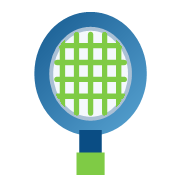
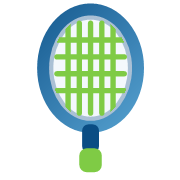
Add files via upload

Changed region(s): [[0.2222, 0.0, 0.7778, 0.6667], [0.1667, 0.25, 0.8333, 0.9722]]

diff --git a/index.html b/index.html
@@ -29,25 +29,25 @@
                       <stop offset="100%" stop-color="#6fbde9" />
                     </linearGradient>
                     <clipPath id="racketHeadClipMain">
-                      <ellipse cx="44" cy="31" rx="22" ry="27" />
+                      <ellipse cx="44" cy="31" rx="17.5" ry="22.5" />
                     </clipPath>
                   </defs>
                   <g>
-                    <ellipse cx="44" cy="31" rx="22" ry="27" fill="url(#racketHeadFillMain)" />
-                    <ellipse cx="44" cy="31" rx="15.4" ry="19.4" fill="#f4f8fc" stroke="#aac0d5" stroke-width="2.1" />
+                    <ellipse cx="44" cy="31" rx="23.8" ry="28.8" fill="url(#racketHeadFillMain)" />
+                    <ellipse cx="44" cy="31" rx="17.5" ry="22.5" fill="#f4f8fc" stroke="#aac0d5" stroke-width="2.1" />
                     <g clip-path="url(#racketHeadClipMain)">
-                      <path d="M33 11V51" stroke="#7fcb45" stroke-width="2.7" stroke-linecap="round"/>
-                      <path d="M39 10V52" stroke="#7fcb45" stroke-width="2.7" stroke-linecap="round"/>
-                      <path d="M44 10V52" stroke="#7fcb45" stroke-width="2.7" stroke-linecap="round"/>
-                      <path d="M49 10V52" stroke="#7fcb45" stroke-width="2.7" stroke-linecap="round"/>
-                      <path d="M55 11V51" stroke="#7fcb45" stroke-width="2.7" stroke-linecap="round"/>
-                      <path d="M28 19H60" stroke="#7fcb45" stroke-width="2.7" stroke-linecap="round"/>
-                      <path d="M27 27H61" stroke="#7fcb45" stroke-width="2.7" stroke-linecap="round"/>
-                      <path d="M27 35H61" stroke="#7fcb45" stroke-width="2.7" stroke-linecap="round"/>
-                      <path d="M28 43H60" stroke="#7fcb45" stroke-width="2.7" stroke-linecap="round"/>
+                      <path d="M34 10V52" stroke="#7fcb45" stroke-width="2.7" stroke-linecap="round"/>
+                      <path d="M39 9V53" stroke="#7fcb45" stroke-width="2.7" stroke-linecap="round"/>
+                      <path d="M44 9V53" stroke="#7fcb45" stroke-width="2.7" stroke-linecap="round"/>
+                      <path d="M49 9V53" stroke="#7fcb45" stroke-width="2.7" stroke-linecap="round"/>
+                      <path d="M54 10V52" stroke="#7fcb45" stroke-width="2.7" stroke-linecap="round"/>
+                      <path d="M30 18H58" stroke="#7fcb45" stroke-width="2.7" stroke-linecap="round"/>
+                      <path d="M29 25H59" stroke="#7fcb45" stroke-width="2.7" stroke-linecap="round"/>
+                      <path d="M29 32H59" stroke="#7fcb45" stroke-width="2.7" stroke-linecap="round"/>
+                      <path d="M30 39H58" stroke="#7fcb45" stroke-width="2.7" stroke-linecap="round"/>
                     </g>
-                    <rect x="39.8" y="56" width="8.4" height="12.6" rx="2.8" fill="#0a4d84" />
-                    <rect x="38.6" y="66.8" width="10.8" height="10.2" rx="3.1" fill="#7fcb45" />
+                    <rect x="40" y="58" width="8" height="12" rx="2.8" fill="#0a4d84" />
+                    <rect x="39" y="68" width="10" height="10" rx="3.1" fill="#7fcb45" />
                   </g>
                 </svg>
               </div>
